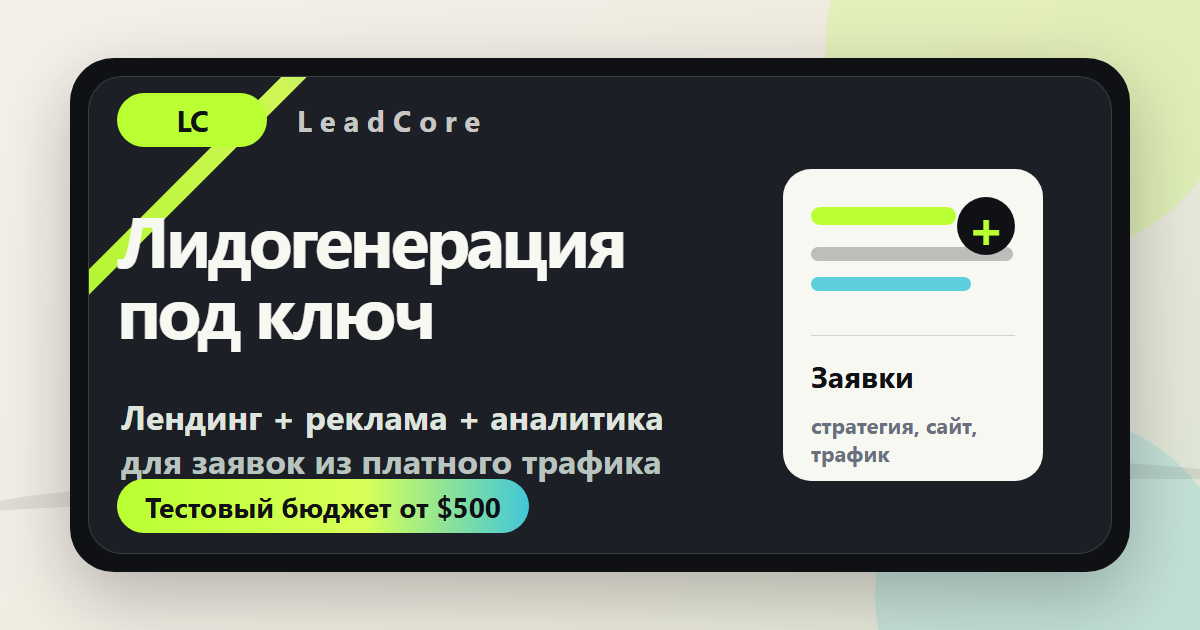
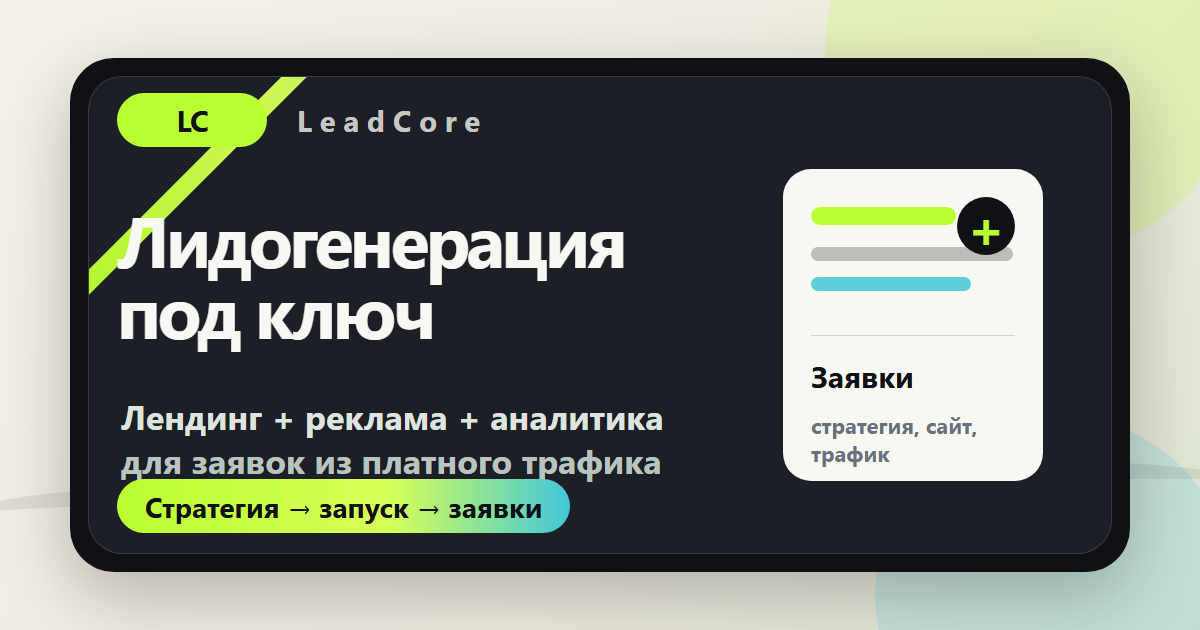
Remove budget from social preview

Changed region(s): [[0.1233, 0.754, 0.4933, 0.8444]]

diff --git a/index.html b/index.html
@@ -13,8 +13,8 @@
   <meta property="og:description" content="Собираю связку под заявки: лендинг, рекламные кампании, аналитика и стратегия роста." />
   <meta property="og:url" content="https://leadcore.by/" />
   <meta property="og:site_name" content="LeadCore" />
-  <meta property="og:image" content="https://leadcore.by/assets/og-leadcore.png?v=20260511" />
-  <meta property="og:image:secure_url" content="https://leadcore.by/assets/og-leadcore.png?v=20260511" />
+  <meta property="og:image" content="https://leadcore.by/assets/og-leadcore.png?v=20260511-2" />
+  <meta property="og:image:secure_url" content="https://leadcore.by/assets/og-leadcore.png?v=20260511-2" />
   <meta property="og:image:type" content="image/png" />
   <meta property="og:image:width" content="1200" />
   <meta property="og:image:height" content="630" />
@@ -22,7 +22,7 @@
   <meta name="twitter:card" content="summary_large_image" />
   <meta name="twitter:title" content="Лидогенерация под ключ - LeadCore" />
   <meta name="twitter:description" content="Лендинг, реклама, аналитика и стратегия для получения заявок." />
-  <meta name="twitter:image" content="https://leadcore.by/assets/og-leadcore.png?v=20260511" />
+  <meta name="twitter:image" content="https://leadcore.by/assets/og-leadcore.png?v=20260511-2" />
   <meta name="twitter:image:alt" content="LeadCore - лидогенерация под ключ" />
   <meta name="theme-color" content="#101114" />
   <link rel="icon" type="image/svg+xml" href="/assets/favicon.svg" />
